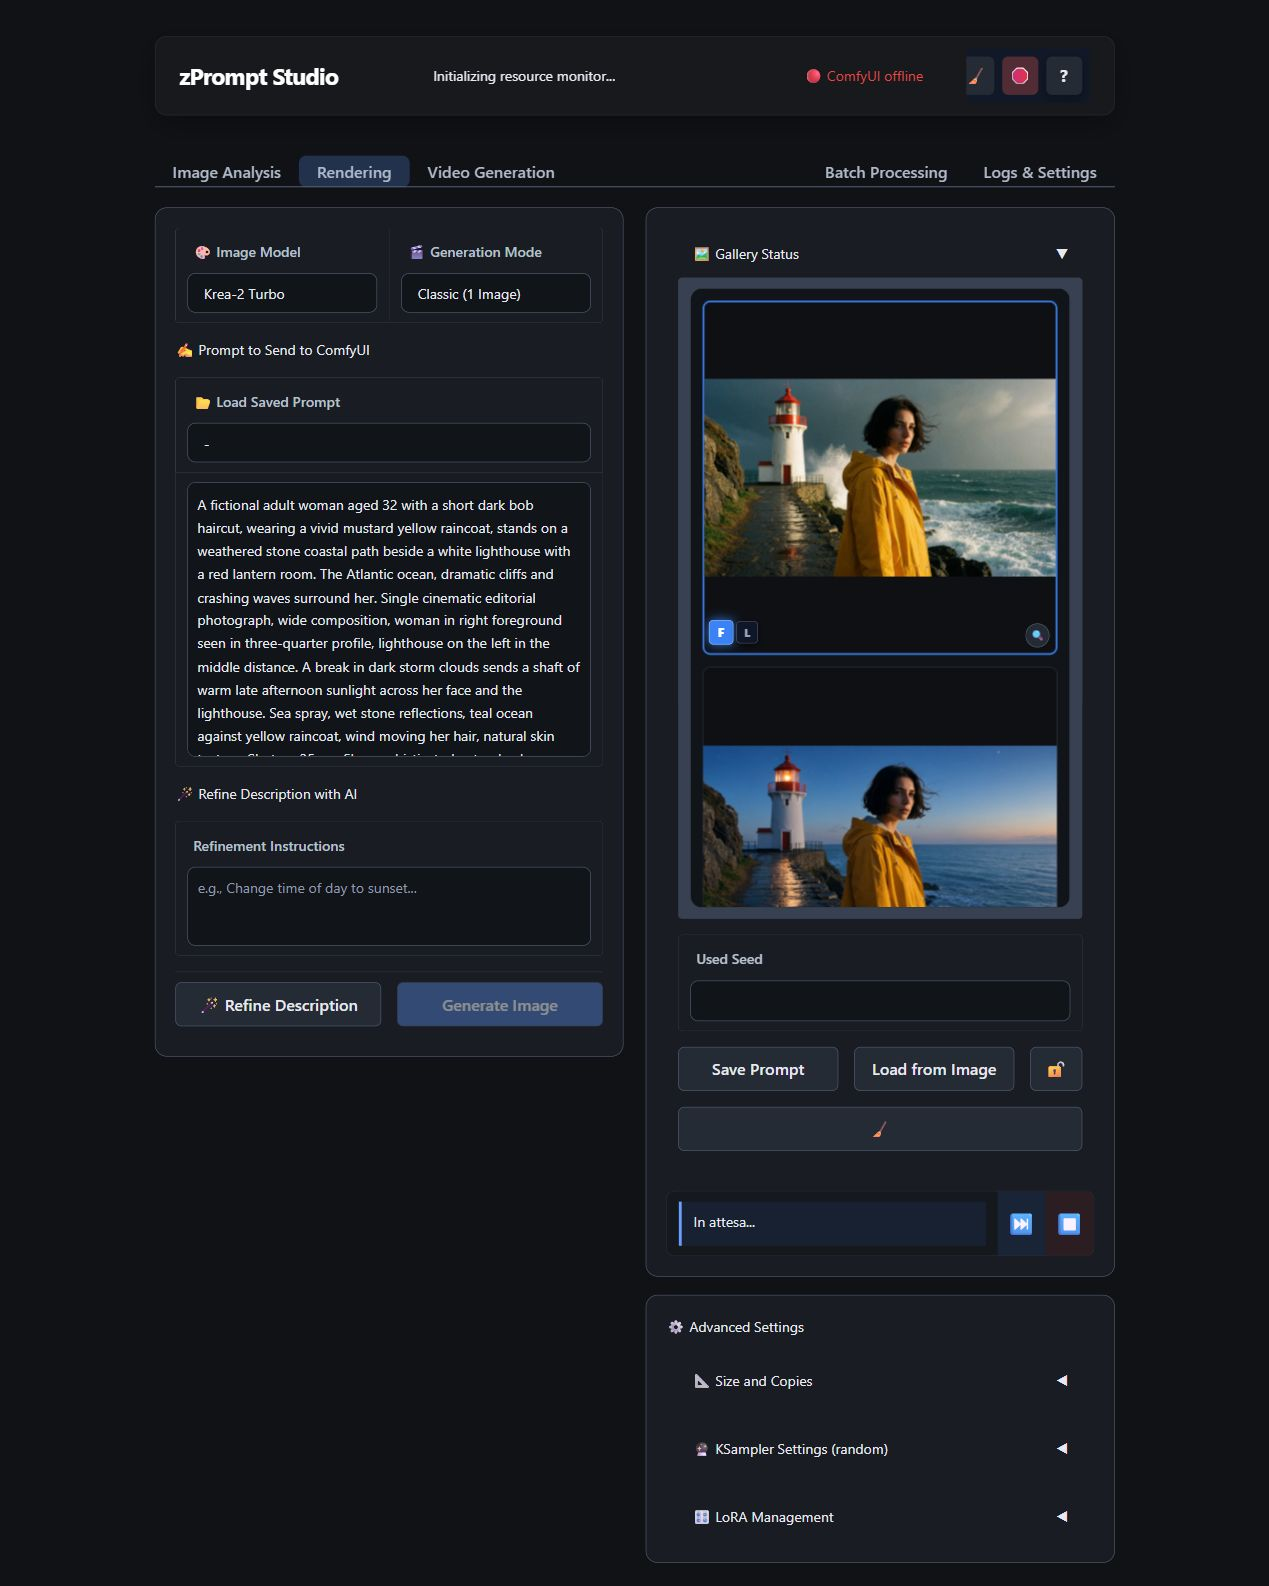
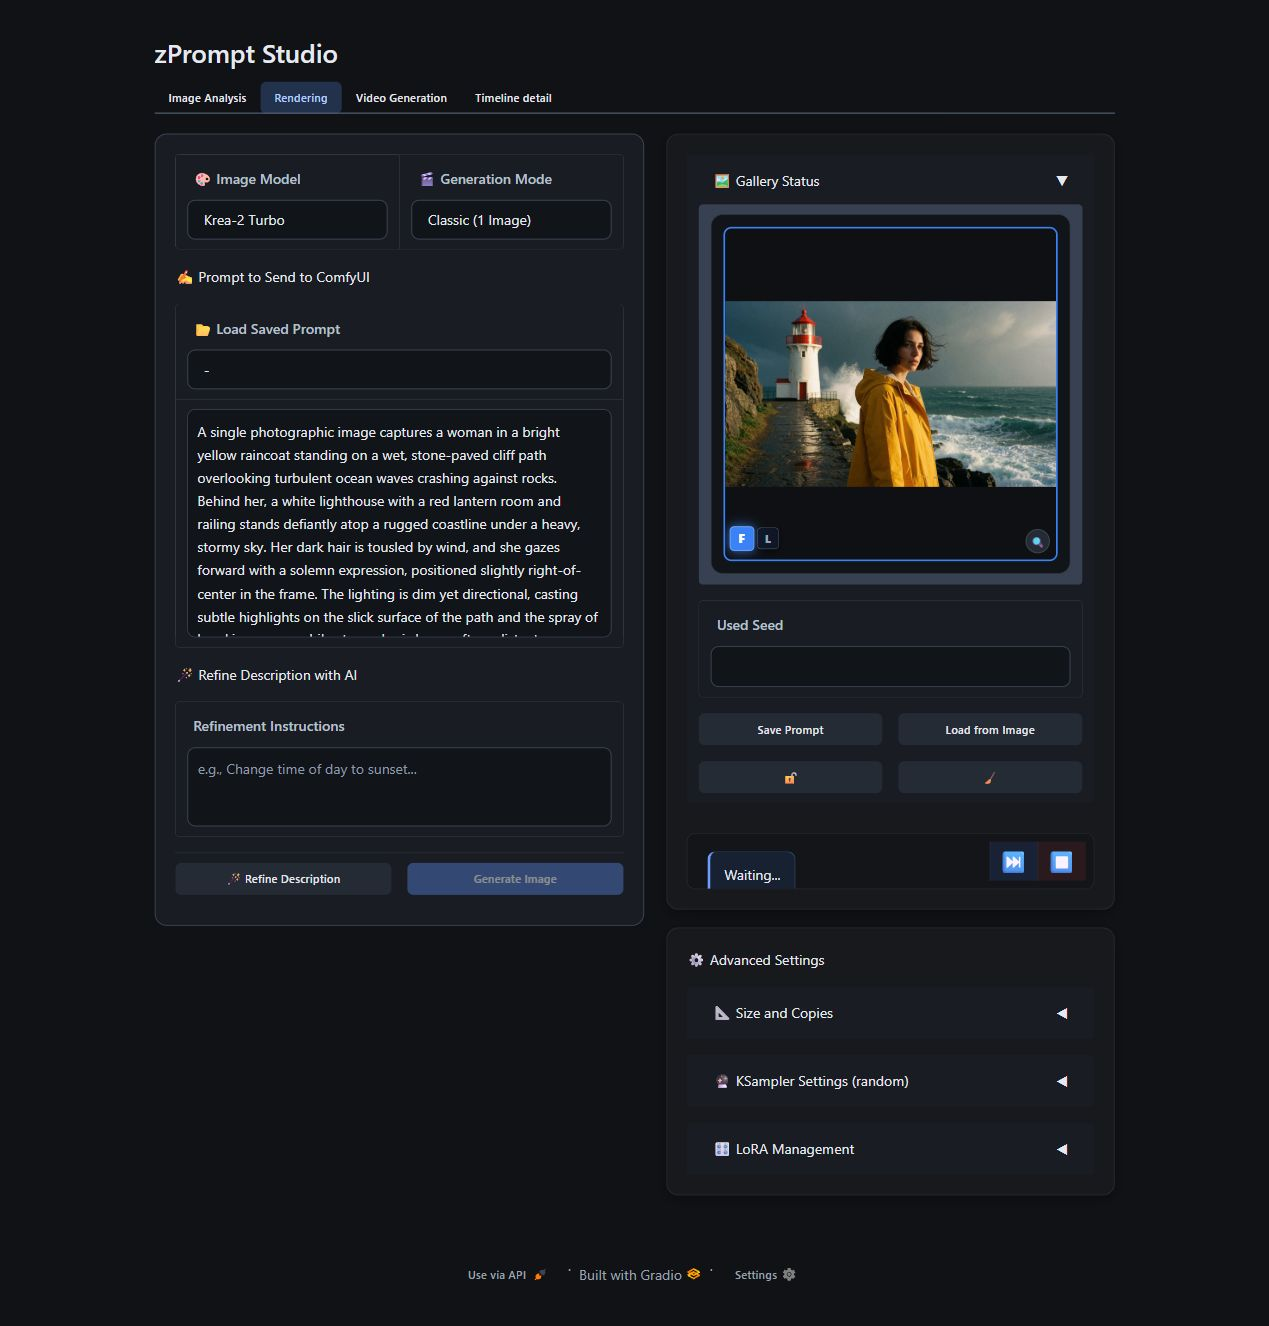
Refresh interface screenshots and three-clip timeline showcase

diff --git a/docs/README.it.md b/docs/README.it.md
@@ -20,7 +20,7 @@ Puoi partire da testo, da un’immagine di riferimento o da un prompt già pront
 
 ### Analisi · trova le parole giuste
 
-[![Analisi Immagine con l’esempio del faro già compilato](assets/studio-analysis.png)](assets/studio-analysis.png)
+[![Analisi Immagine con l’esempio del faro già compilato](assets/studio-analysis.jpg)](assets/studio-analysis.jpg)
 
 Trasforma poche parole o un’immagine di riferimento in un prompt modificabile.
 

diff --git a/docs/README.md b/docs/README.md
@@ -20,7 +20,7 @@ Start from text, a reference image or an existing prompt. You do not have to fol
 
 ### Analysis · find the right words
 
-[![Image Analysis with a completed lighthouse example](assets/studio-analysis.png)](assets/studio-analysis.png)
+[![Image Analysis with a completed lighthouse example](assets/studio-analysis.jpg)](assets/studio-analysis.jpg)
 
 Turn a few words or a reference image into an editable image prompt.
 
